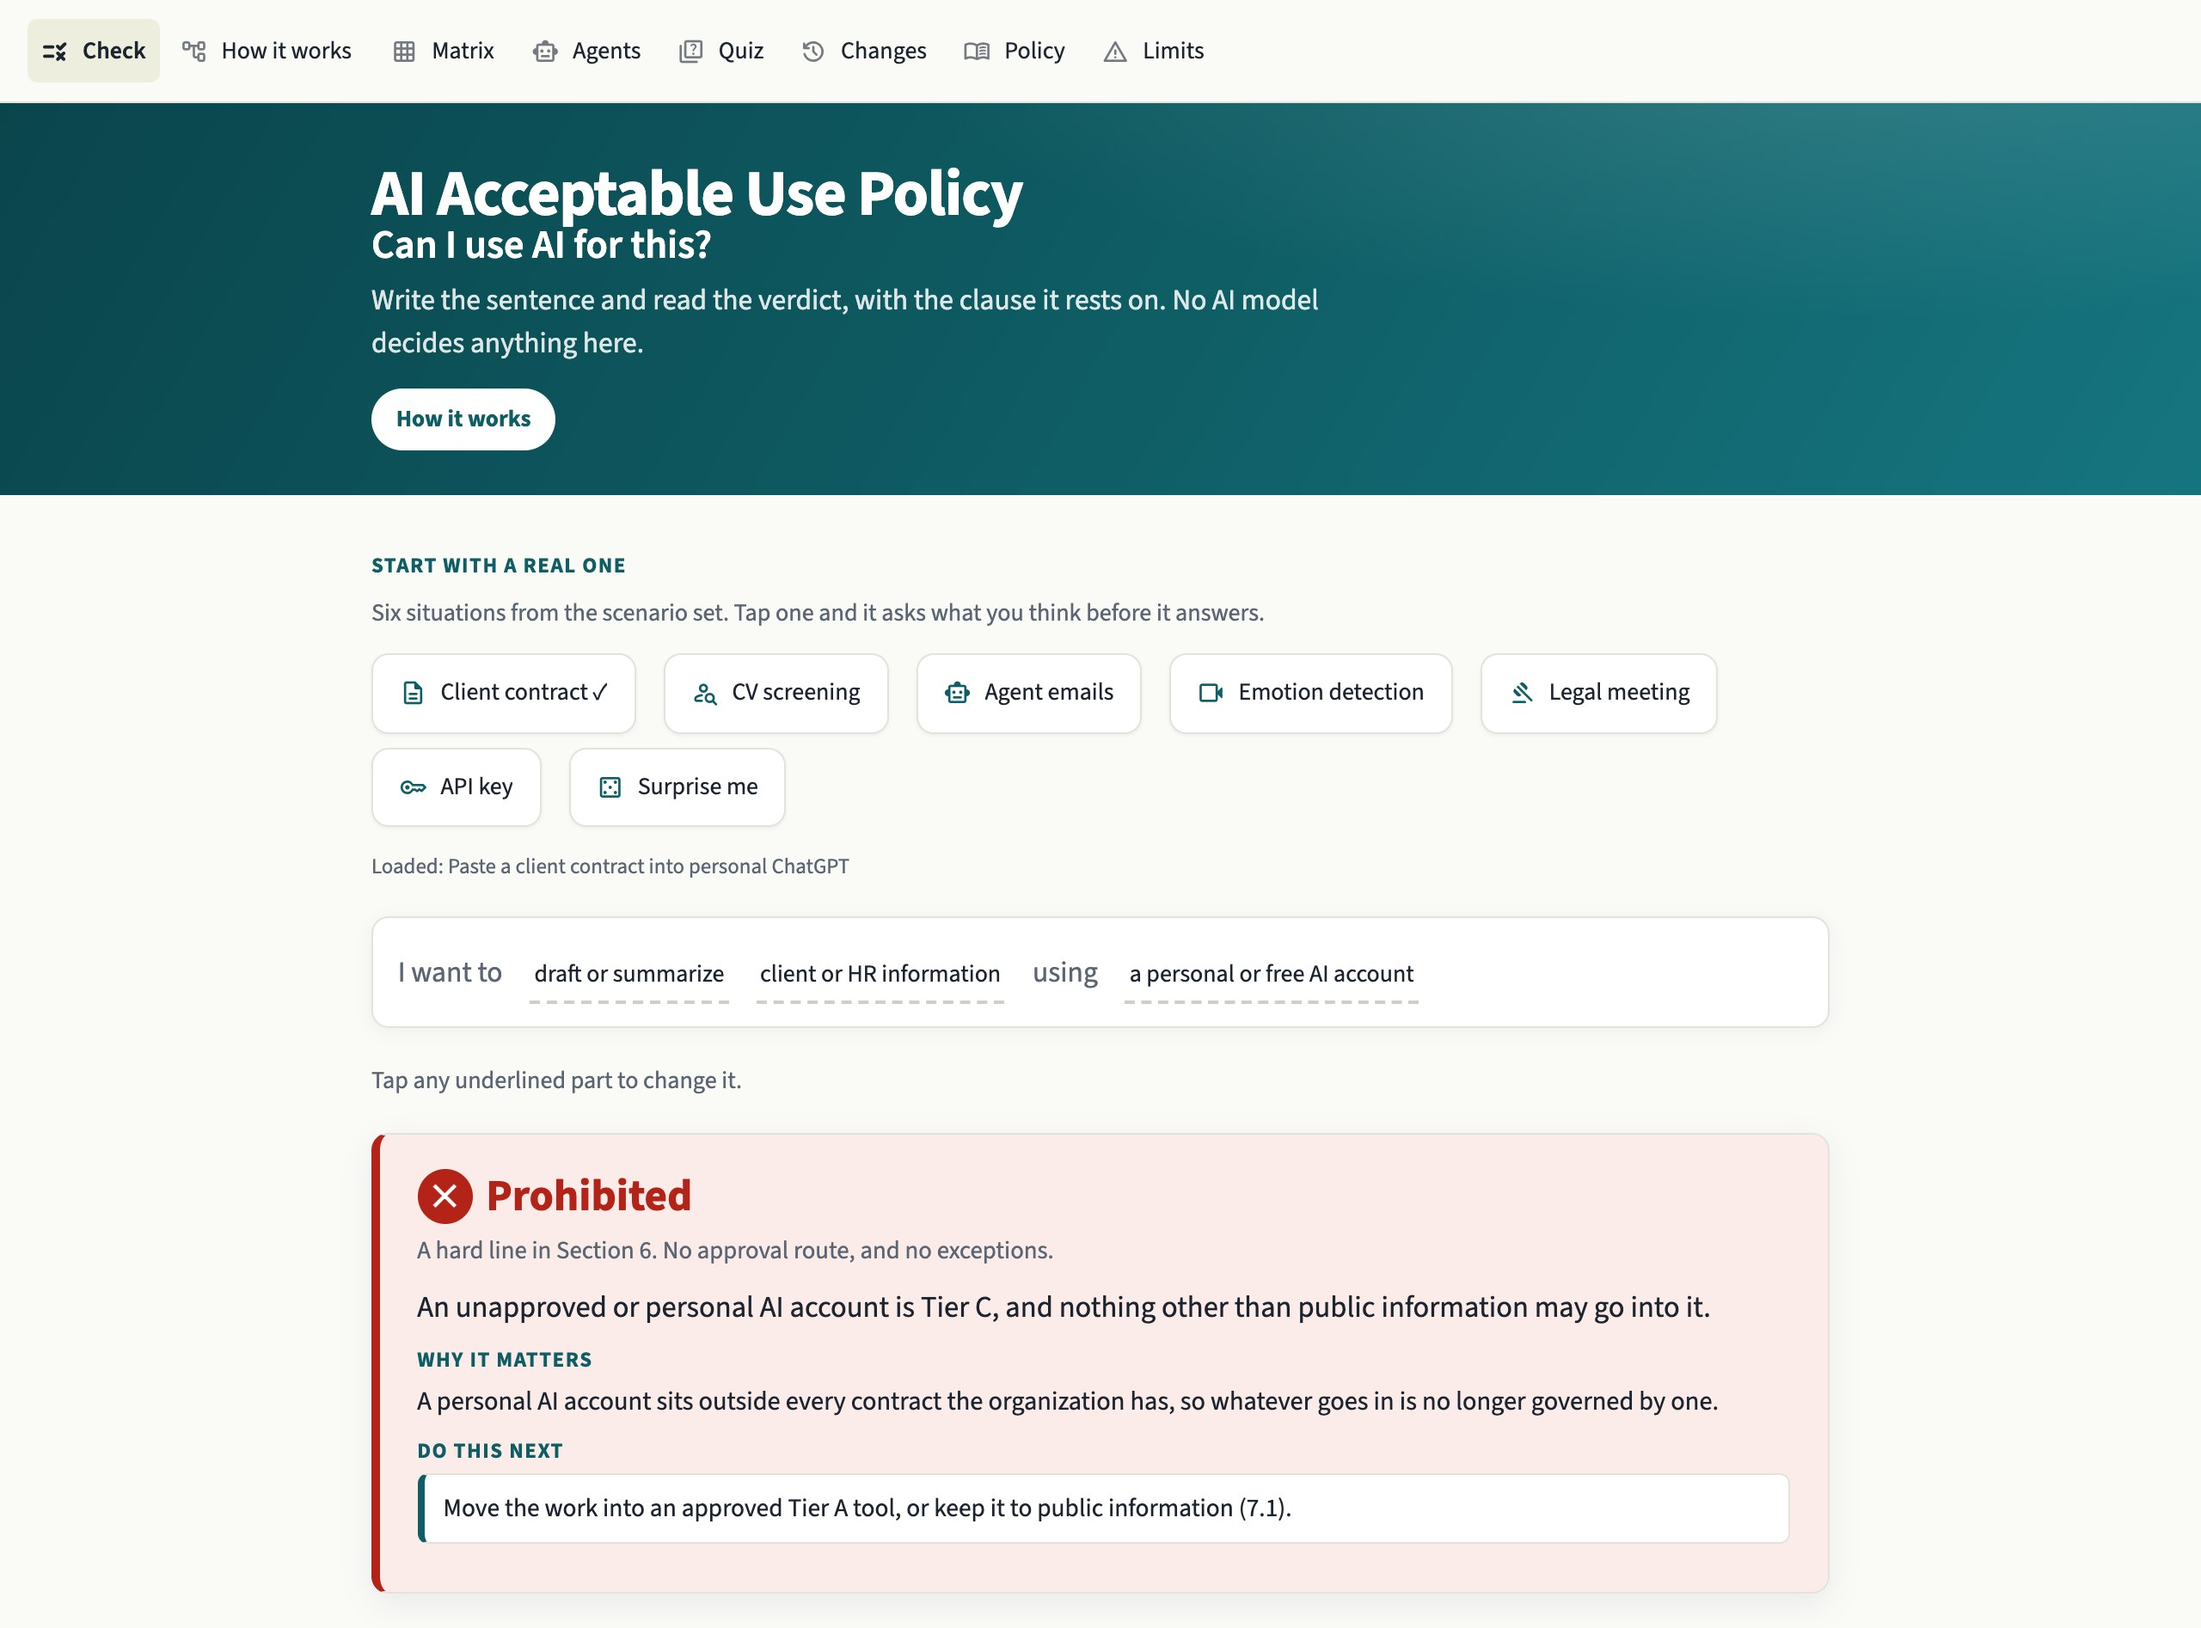
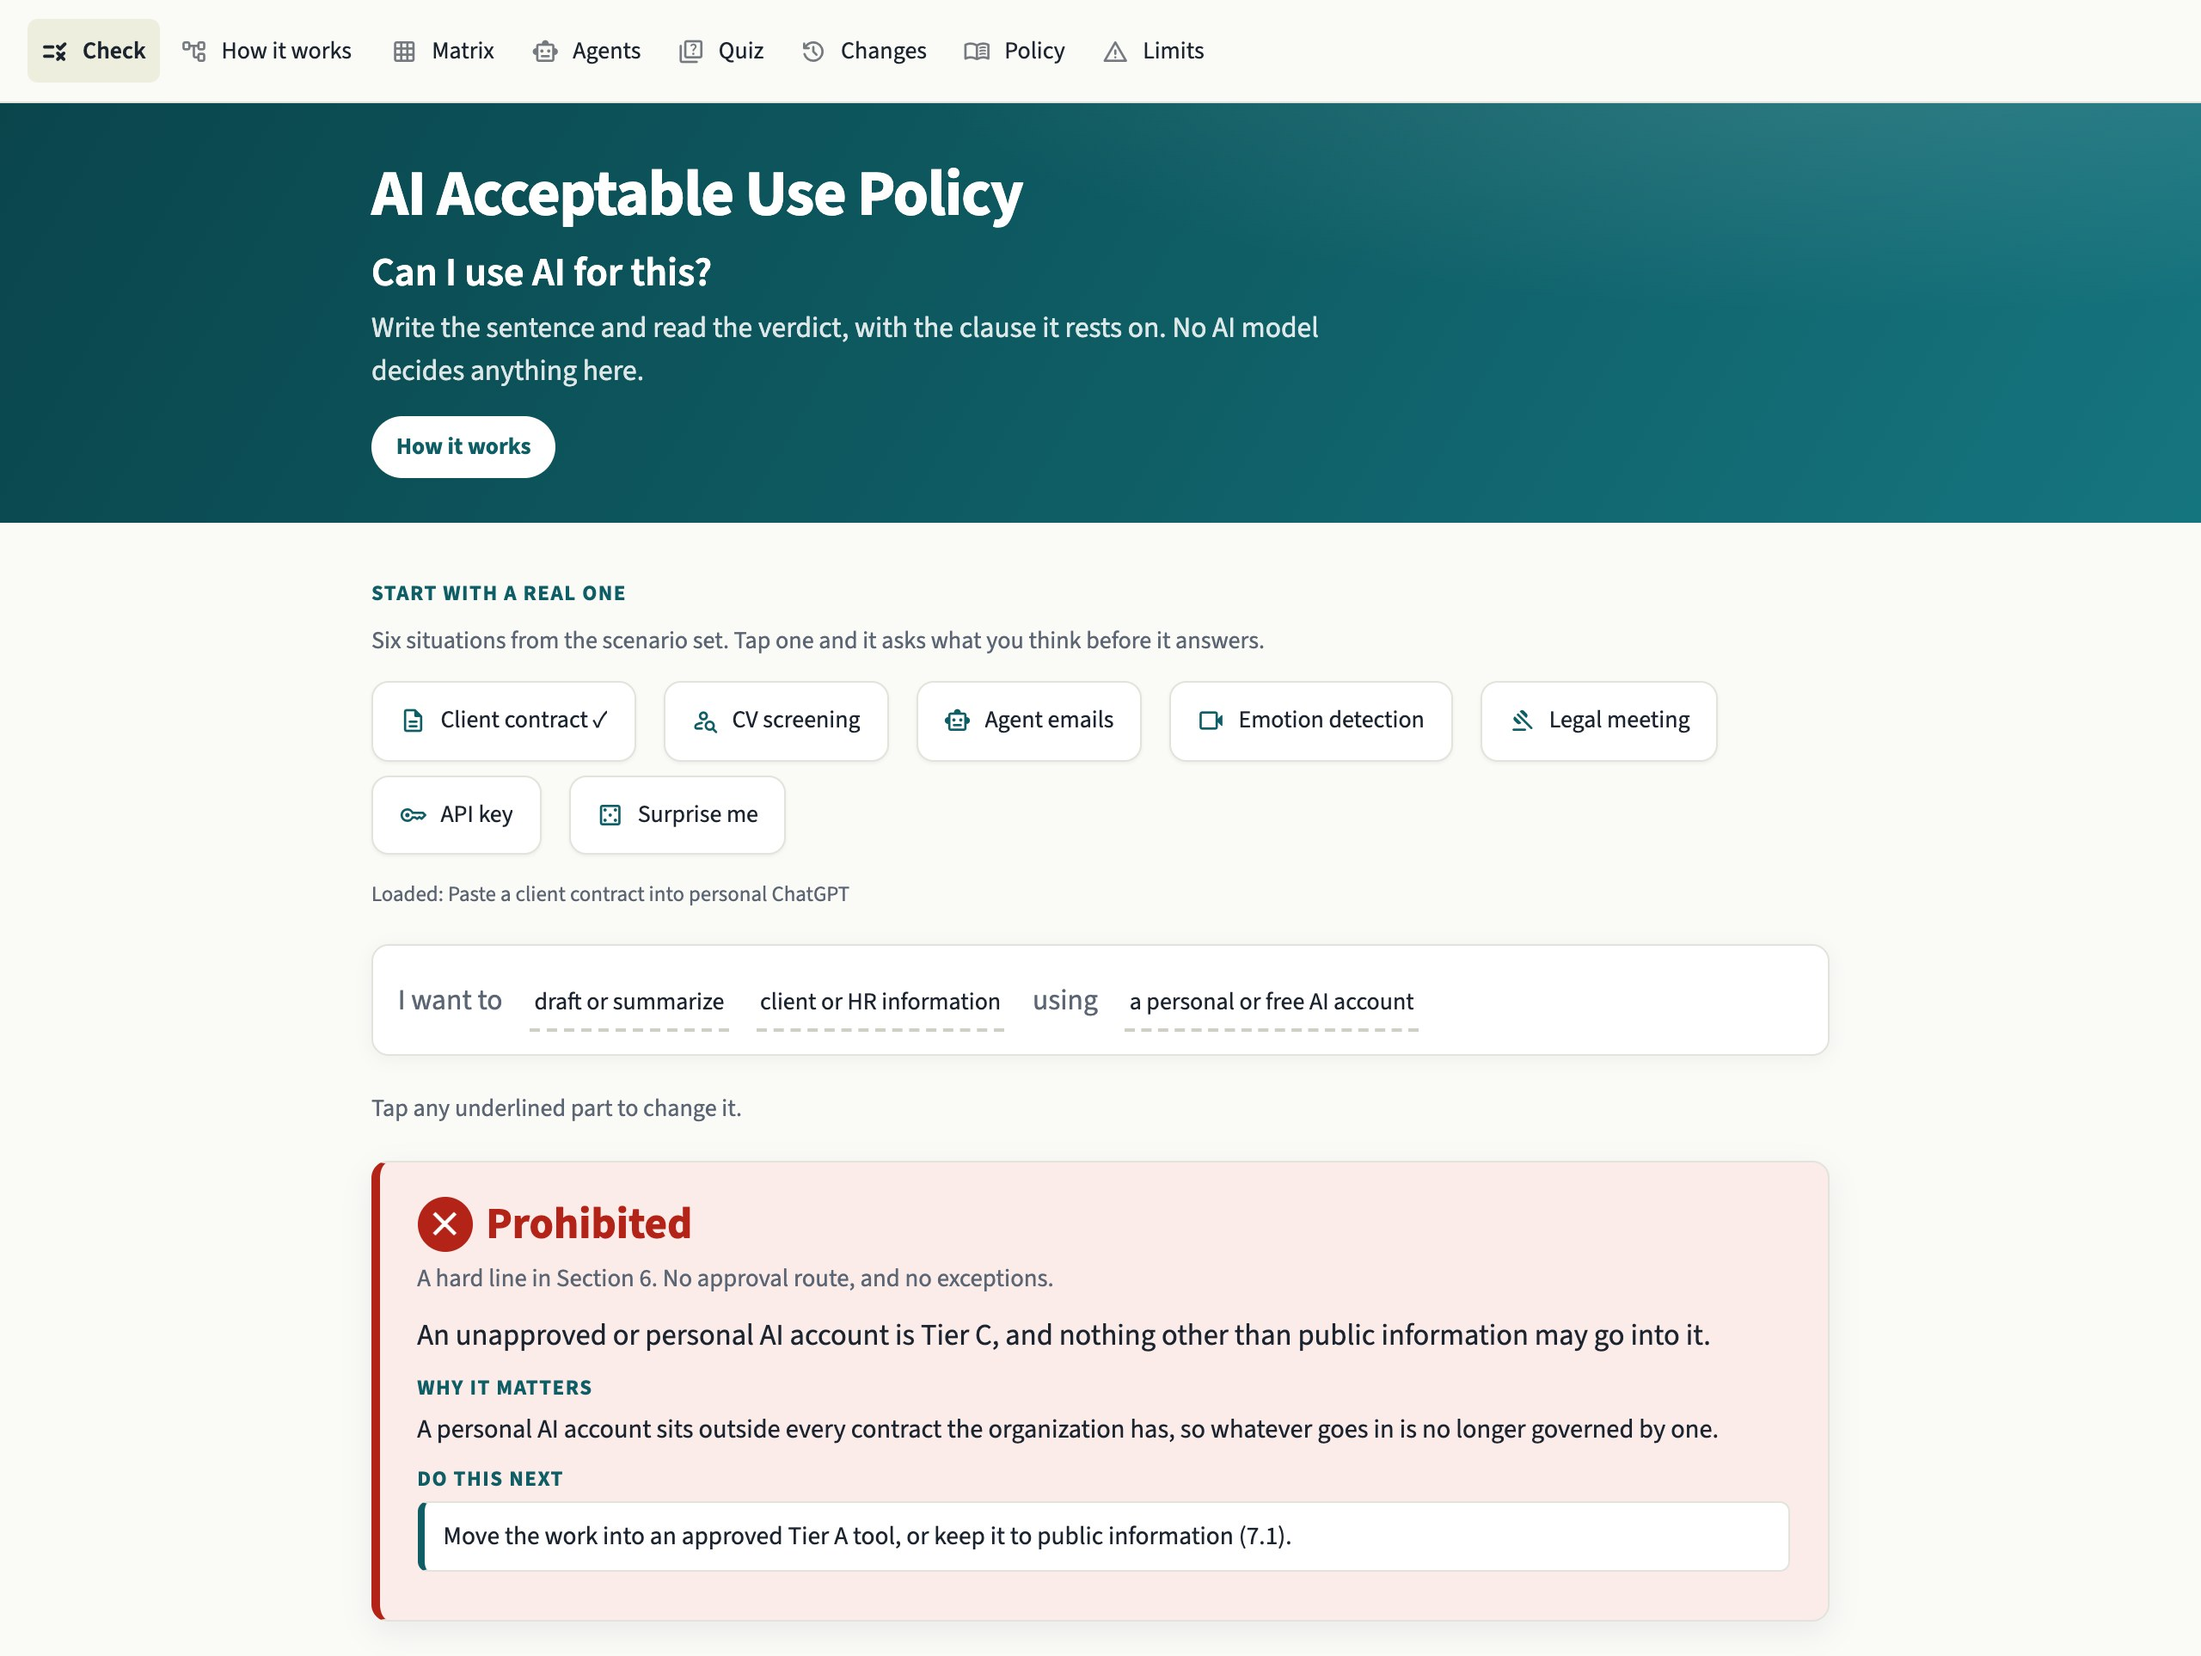
Stop headings being pulled into the element below them
Streamlit gives the container of every markdown heading a bottom margin
of -1rem, which cancels the 1rem of bottom padding its own headings
carry. Ours carry far less, so the next element rode up into the
heading on every page, and on the Quiz page the answer buttons sat on
top of the question. One rule puts that margin back to zero wherever
the container holds a heading.

The Quiz page also drew an empty button row on the first question
before an answer, which showed as a dead gap; it is skipped now.
Screenshots refreshed.

diff --git a/app/styles/app.css b/app/styles/app.css
@@ -91,6 +91,14 @@ h3 {
   padding: 0.4rem 0 0.1rem !important;
 }
 
+/* Streamlit gives the container of a heading `margin-bottom: -1rem`, which
+   cancels the 1rem of bottom padding its own headings carry. Ours carry far
+   less, so without this the next element is pulled up into the heading and
+   the answer buttons on the Quiz page sat on top of the question. */
+[data-testid="stMarkdownContainer"]:has(> [data-testid="stHeadingWithActionElements"]) {
+  margin-bottom: 0 !important;
+}
+
 .cu-lede {
   color: var(--muted);
   font-size: 0.92rem;

diff --git a/app/views/4_scenarios.py b/app/views/4_scenarios.py
@@ -161,6 +161,11 @@ def _render_question(position: int, example: Scenario, last: bool) -> None:
     else:
         _render_reveal(example, picked)
 
+    # On the first question, before an answer, there is no button to show,
+    # and an empty row still takes its height from the gap around it.
+    if position == 1 and picked is None:
+        return
+
     with st.container(horizontal=True, gap="small"):
         if position > 1:
             st.button("Back", key="cu_quiz_back", on_click=_back, width="content")
